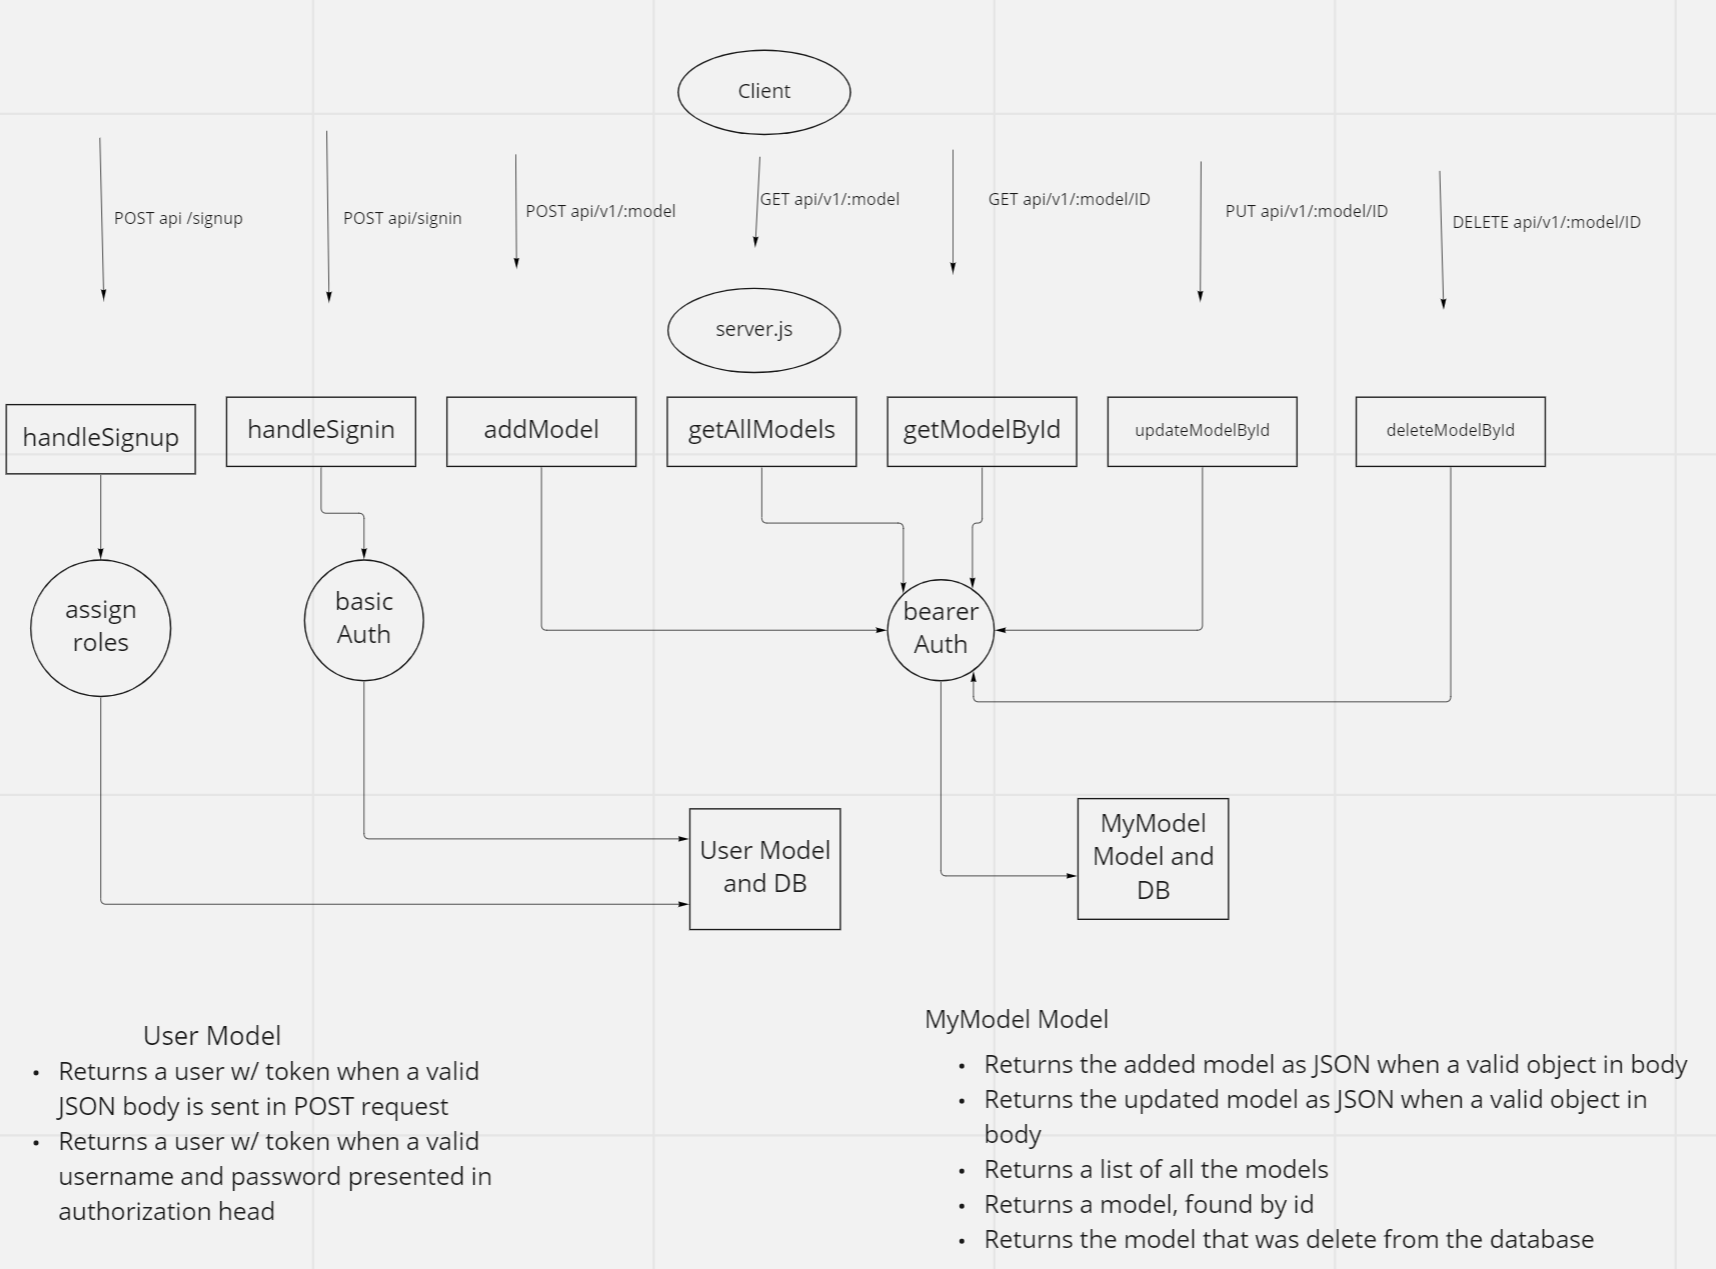
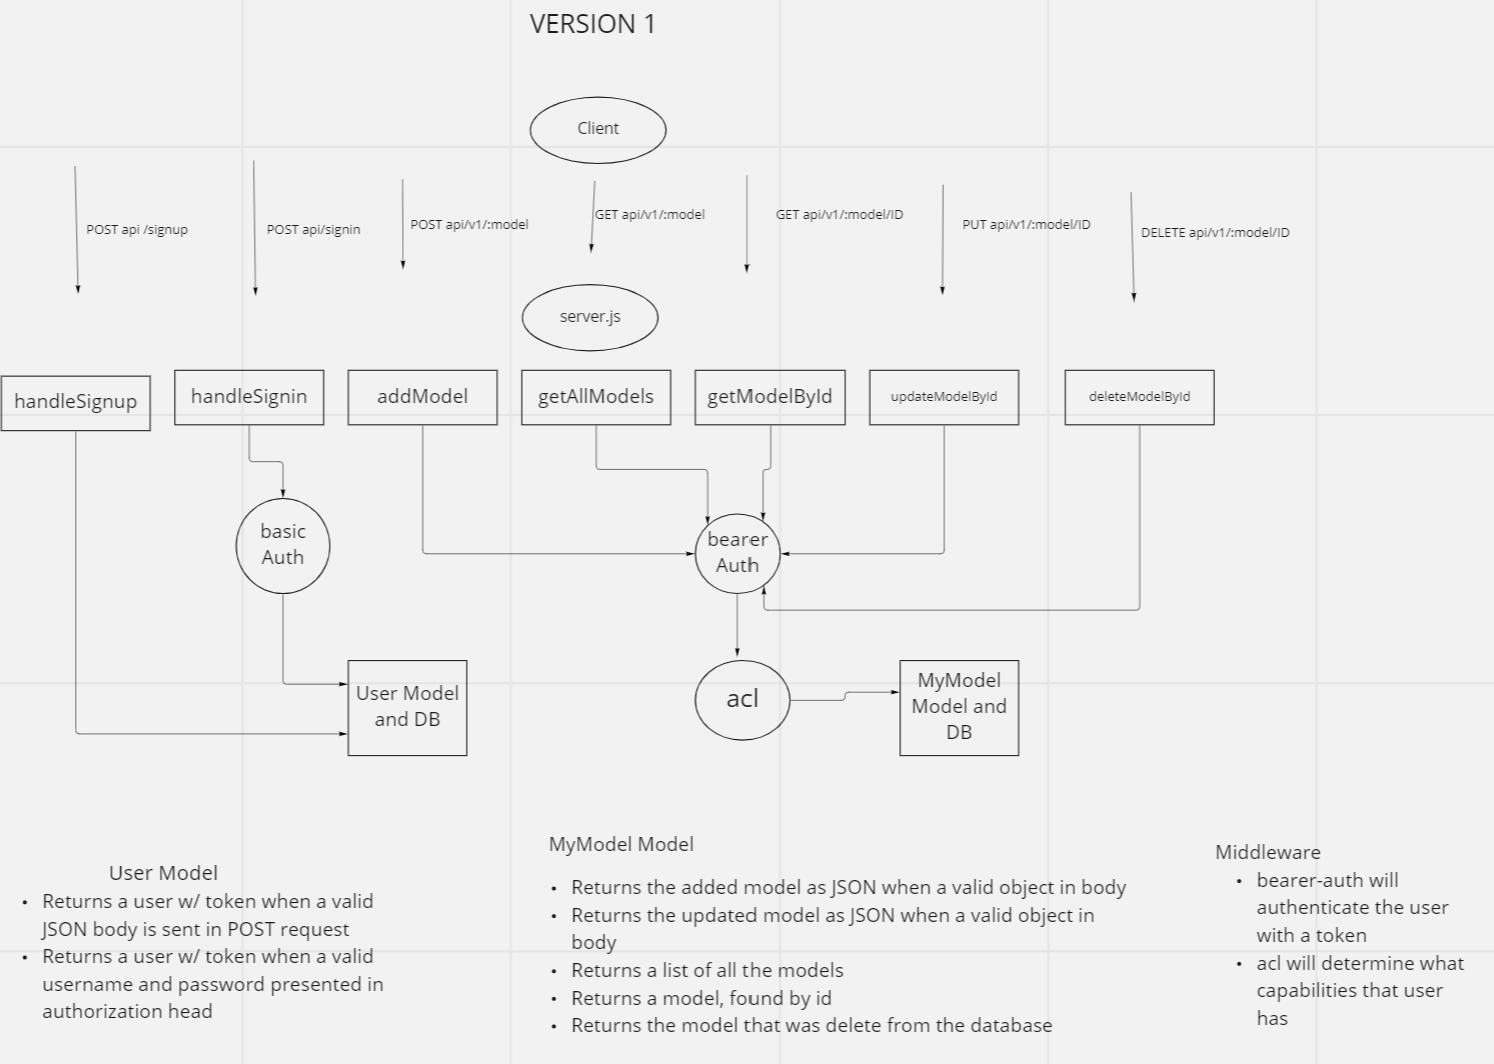
add workflow file

diff --git a/README.md b/README.md
@@ -5,18 +5,18 @@
 **Version**: 1.0.0
 
 ## Overview
- 
+This is a basic REST api that uses basic authentication for sign in and bearer auth for all other routes. The routes for reading, creating, updating, and deleting also include acl middleware which determines what permissions the user has.
 
 ## Deployed Server
 [https://bh-auth-api.herokuapp.com](https://bh-auth-api.herokuapp.com/)
 
-### Routes
-
-
-
-## Architecture
+## Architecture and Routes
 <img src='./readMeImg/lab08Version1.png' width='100%' height='auto'>
+
+The user can sign up using that route, and is put in a db with their role and hashed password. Basic authentication is used for sign in and compares hashes to authenticate from user. If the user is valid, they are given a token. The token is used to authenticate for all other routes, and the acl middleware will also determine what permissions the user has before requests are handled.
 
 
 ## Change Log
-09-28-2022 07:25pm - 
+09-28-2022 10:00am - user sign up creates a user and stores it in db with capabilities and hashed password
+09-28-2022 10:00am - routes use bearer authentication with json web token
+09-28-2022 11:55am - routes are protected with acl middleware that only lets user make requests they have permissions for
